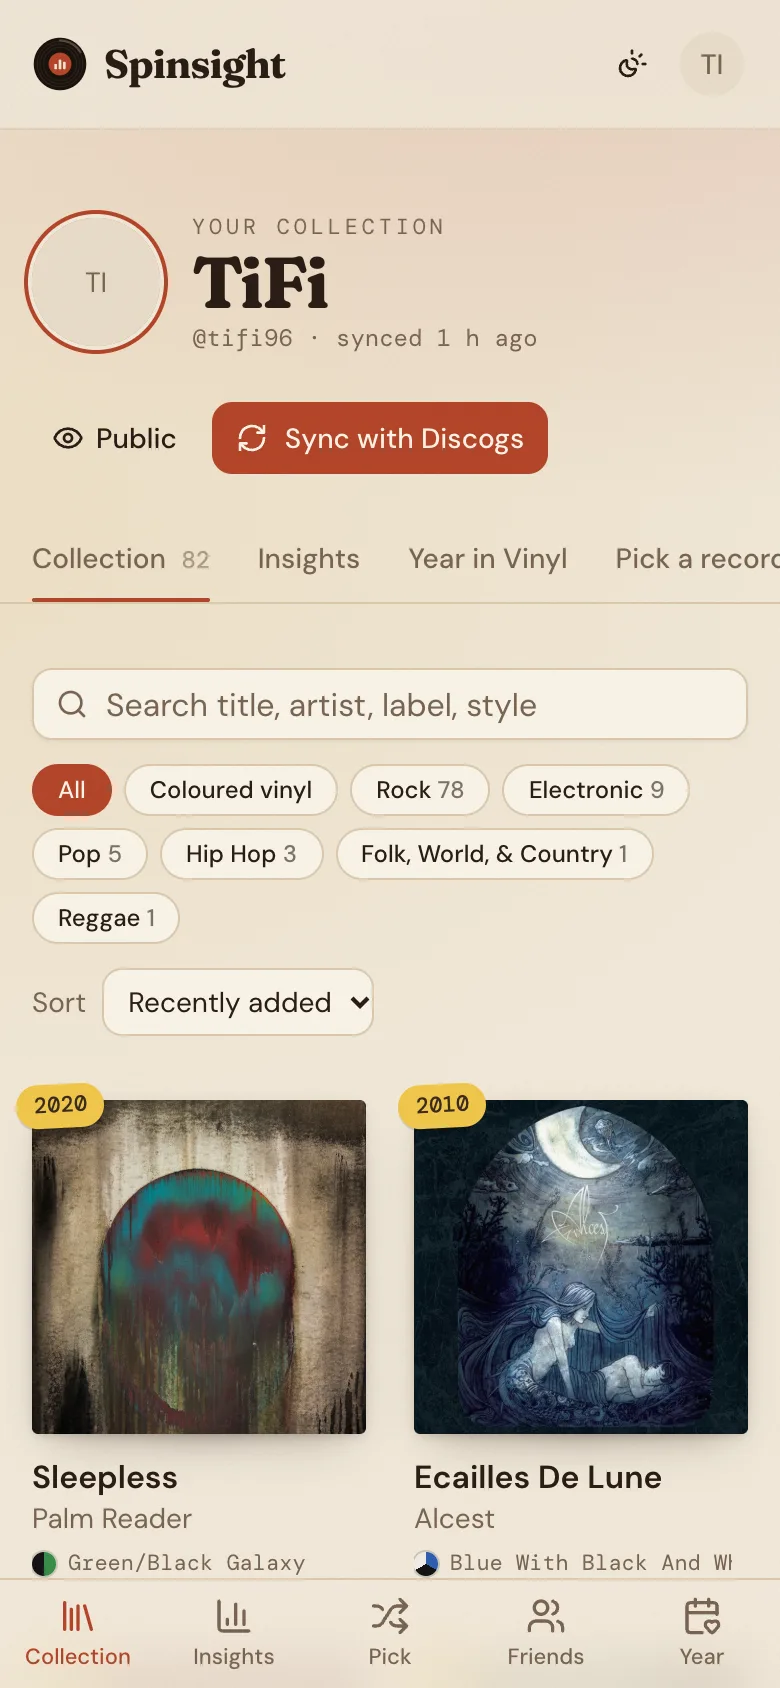
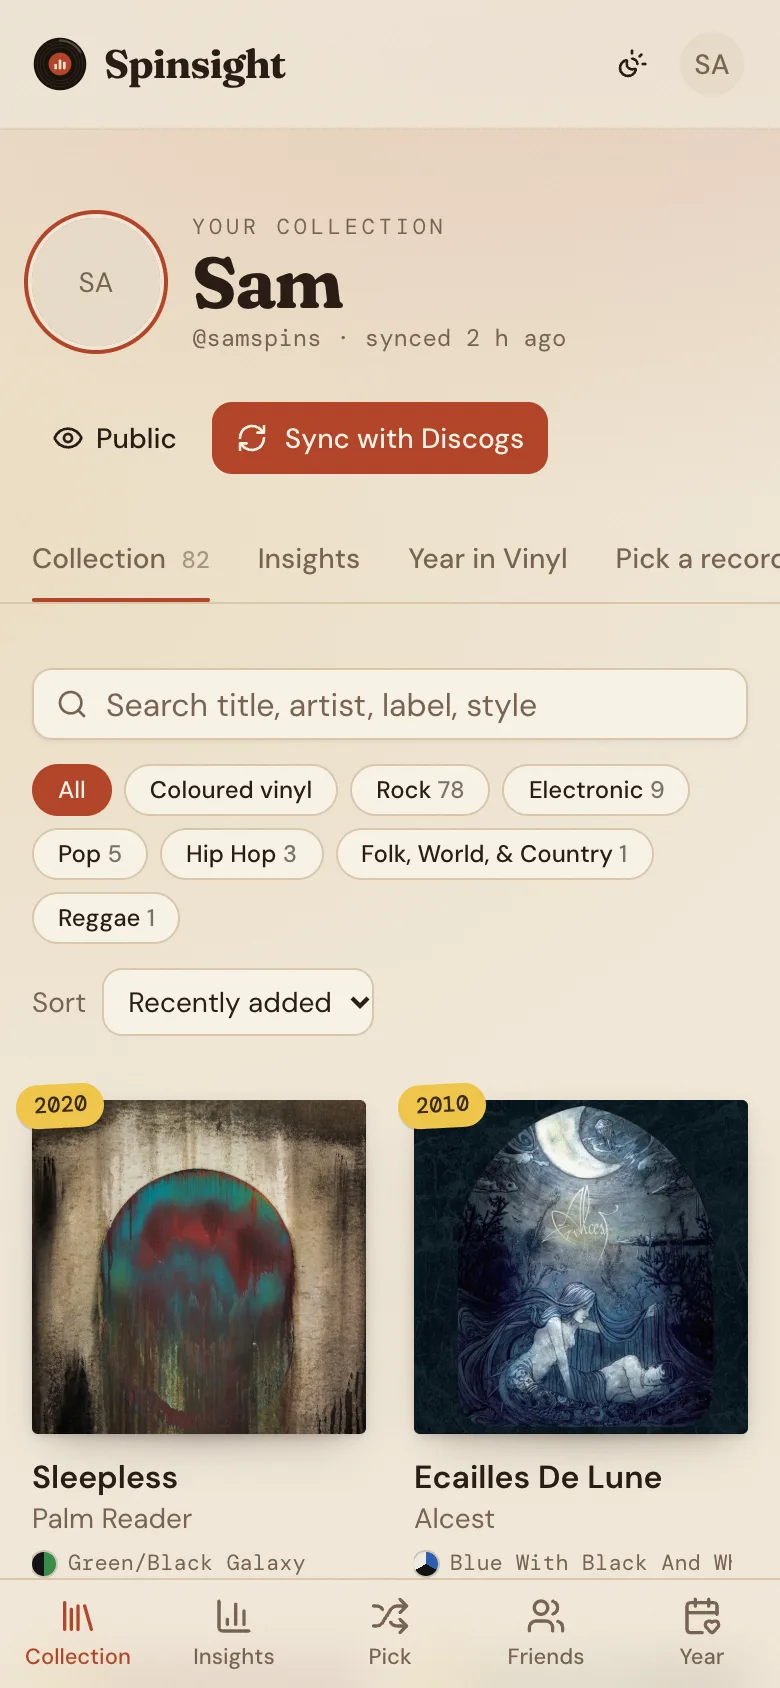
Anonymise preview screenshots and schedule the daily sync
- Share card, landing preview and install screenshots show a placeholder
  name ("Sam", @samspins) instead of the real account
- vercel.json runs /api/cron/sync daily at 04:00 UTC (needs CRON_SECRET
  set on Vercel); the privacy page mentions the automatic refresh

diff --git a/src/routes/privacy.tsx b/src/routes/privacy.tsx
@@ -33,10 +33,10 @@ function PrivacyPage() {
         never sent to your browser.
       </p>
       <p>
-        <strong>From Discogs, when you sync:</strong> the records in your
-        collection (with the folder, your rating and the date you added each
-        one), your wantlist, and the collection value estimate Discogs shows
-        you.
+        <strong>From Discogs, when you sync</strong> (and once a day
+        automatically): the records in your collection (with the folder, your
+        rating and the date you added each one), your wantlist, and the
+        collection value estimate Discogs shows you.
       </p>
       <p>
         <strong>Things you do in Spinsight:</strong> records you mark as playing
